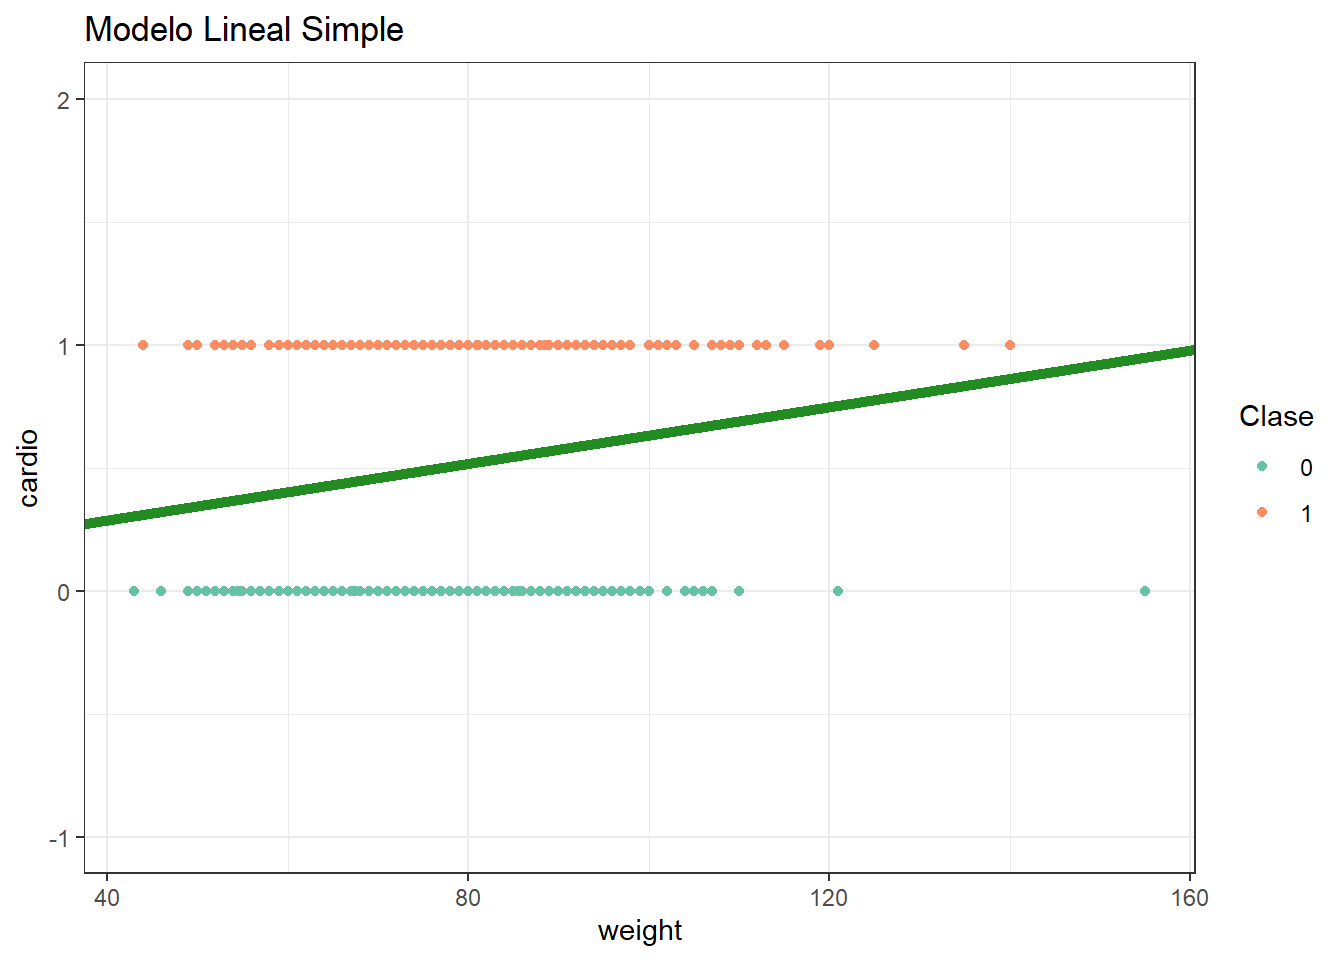
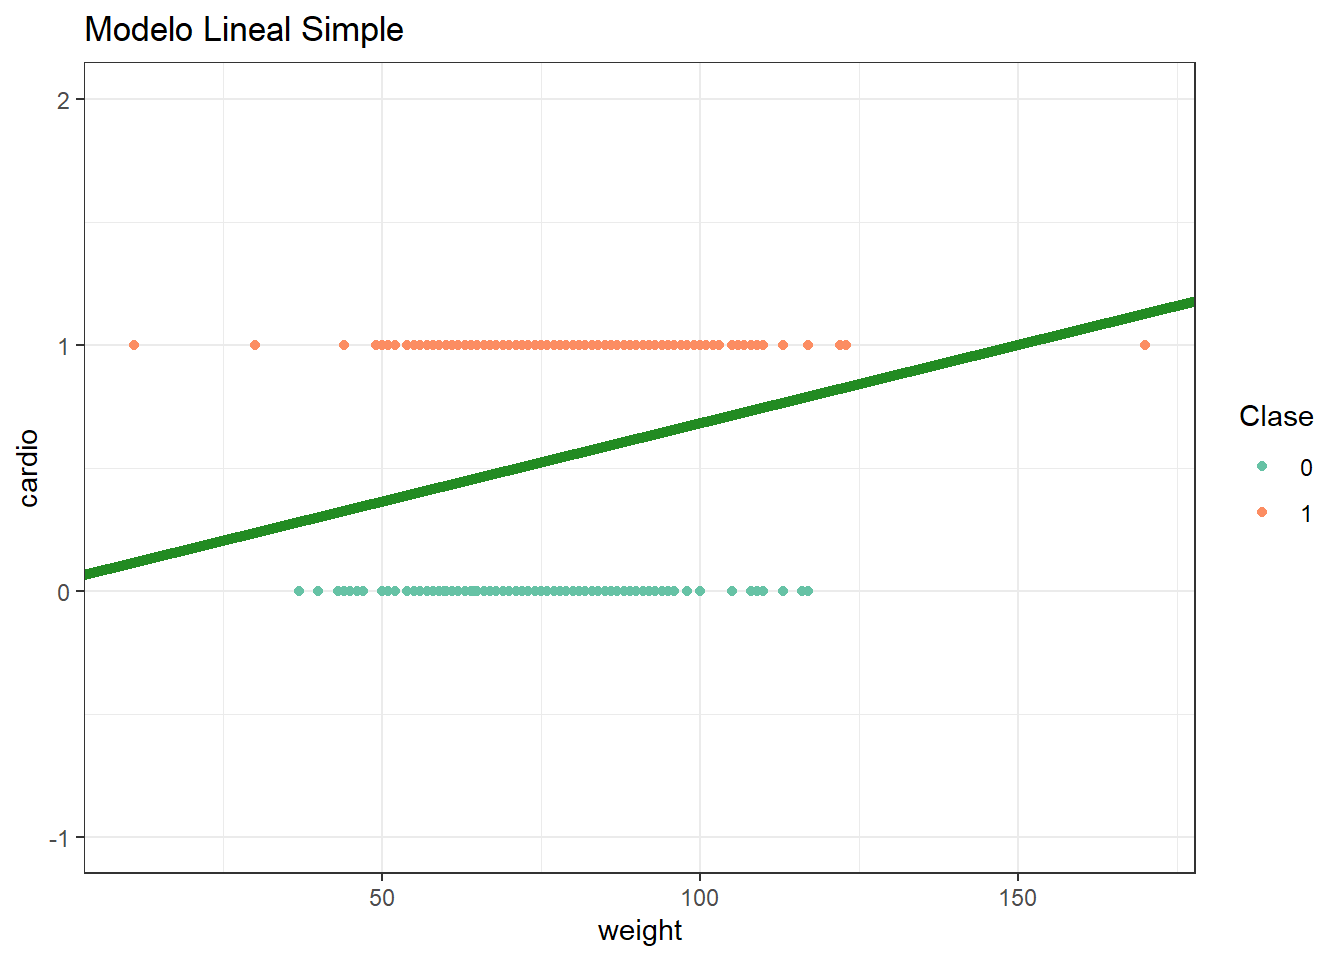
agrego info sobre odds

diff --git a/EEA/2025/regLogistica.html b/EEA/2025/regLogistica.html
@@ -242,8 +242,8 @@ $ cardio      &lt;int&gt; 0, 1, 1, 1, 0, 0, 0, 1, 0, 0, 0, 0, 0, 0, 0, 1, 0, 0, 
 <pre><code># A tibble: 2 × 3
   cardio   cnt  freq
    &lt;int&gt; &lt;int&gt; &lt;dbl&gt;
-1      0   504   0.5
-2      1   496   0.5</code></pre>
+1      0   495   0.5
+2      1   505   0.5</code></pre>
 </div>
 </div>
 <section id="partición-de-la-base-de-datos" class="level2">
@@ -310,19 +310,19 @@ $ cardio      &lt;int&gt; 0, 1, 1, 1, 0, 0, 0, 1, 0, 0, 0, 0, 0, 0, 0, 1, 0, 0, 
 <div class="cell-output cell-output-stdout">
 <pre><code>Rows: 800
 Columns: 13
-$ id          &lt;int&gt; 8598, 98213, 25313, 1565, 14855, 51685, 71755, 57680, 2818…
-$ age         &lt;int&gt; 18900, 18755, 19789, 22761, 16607, 16910, 16651, 14496, 19…
-$ gender      &lt;int&gt; 2, 1, 2, 1, 2, 1, 1, 1, 2, 1, 2, 2, 1, 2, 1, 2, 1, 2, 1, 1…
-$ height      &lt;int&gt; 177, 158, 180, 164, 173, 169, 158, 162, 177, 153, 170, 167…
-$ weight      &lt;dbl&gt; 84, 74, 75, 78, 84, 73, 71, 68, 74, 49, 71, 81, 64, 89, 85…
-$ ap_hi       &lt;int&gt; 130, 14, 120, 130, 120, 120, 110, 110, 120, 120, 100, 140,…
-$ ap_lo       &lt;int&gt; 90, 90, 80, 79, 70, 80, 80, 80, 80, 80, 60, 90, 80, 90, 80…
-$ cholesterol &lt;int&gt; 1, 1, 1, 3, 1, 1, 1, 1, 1, 1, 1, 1, 1, 1, 1, 1, 1, 1, 1, 1…
-$ gluc        &lt;int&gt; 1, 1, 1, 1, 1, 1, 1, 1, 1, 1, 1, 2, 1, 1, 1, 1, 1, 2, 1, 1…
-$ smoke       &lt;int&gt; 0, 0, 0, 0, 0, 0, 0, 0, 1, 0, 0, 0, 0, 0, 0, 0, 0, 1, 0, 0…
-$ alco        &lt;int&gt; 0, 0, 0, 0, 0, 0, 0, 0, 1, 0, 0, 0, 0, 0, 0, 1, 0, 0, 0, 0…
-$ active      &lt;int&gt; 1, 1, 1, 0, 1, 1, 1, 1, 1, 1, 0, 1, 1, 1, 1, 1, 0, 1, 1, 0…
-$ cardio      &lt;int&gt; 0, 1, 1, 1, 0, 0, 0, 0, 0, 0, 1, 1, 1, 1, 0, 0, 1, 0, 0, 1…</code></pre>
+$ id          &lt;int&gt; 6715, 88133, 37378, 54574, 36301, 14598, 38135, 88984, 510…
+$ age         &lt;int&gt; 20320, 21292, 19569, 20639, 15319, 15965, 20375, 18278, 18…
+$ gender      &lt;int&gt; 1, 1, 1, 1, 1, 1, 2, 1, 2, 1, 1, 2, 2, 2, 1, 1, 2, 1, 1, 2…
+$ height      &lt;int&gt; 156, 160, 171, 158, 165, 160, 159, 165, 170, 160, 154, 178…
+$ weight      &lt;dbl&gt; 60, 79, 76, 60, 61, 63, 69, 70, 65, 65, 52, 82, 110, 58, 7…
+$ ap_hi       &lt;int&gt; 110, 140, 100, 120, 100, 11, 120, 130, 120, 110, 100, 140,…
+$ ap_lo       &lt;int&gt; 70, 90, 70, 80, 60, 60, 60, 80, 80, 70, 60, 90, 90, 70, 10…
+$ cholesterol &lt;int&gt; 2, 1, 1, 1, 1, 1, 1, 1, 1, 1, 3, 1, 2, 1, 2, 2, 1, 1, 1, 3…
+$ gluc        &lt;int&gt; 2, 1, 1, 1, 1, 3, 1, 1, 1, 1, 1, 1, 2, 1, 2, 2, 2, 1, 1, 3…
+$ smoke       &lt;int&gt; 0, 0, 0, 0, 0, 0, 0, 0, 0, 0, 0, 0, 0, 1, 0, 0, 0, 0, 0, 0…
+$ alco        &lt;int&gt; 0, 0, 0, 0, 0, 0, 0, 0, 0, 0, 0, 0, 0, 0, 0, 0, 0, 0, 0, 0…
+$ active      &lt;int&gt; 1, 1, 0, 1, 1, 1, 1, 1, 1, 1, 1, 1, 1, 1, 1, 1, 0, 0, 1, 1…
+$ cardio      &lt;int&gt; 0, 1, 0, 1, 0, 0, 0, 0, 0, 1, 1, 1, 1, 1, 1, 1, 0, 1, 1, 1…</code></pre>
 </div>
 </div>
 <p>Seleccioamoslas variables con las que vamos a trabajar y les asignamos el tipo de dato correspondiente.</p>
@@ -383,10 +383,10 @@ $ cardio      &lt;int&gt; 0, 1, 1, 1, 0, 0, 0, 0, 0, 0, 1, 1, 1, 1, 0, 0, 1, 0, 
 </details>
 <div class="cell-output cell-output-stdout">
 <pre><code># A tibble: 2 × 5
-  term        estimate std.error statistic    p.value
-  &lt;chr&gt;          &lt;dbl&gt;     &lt;dbl&gt;     &lt;dbl&gt;      &lt;dbl&gt;
-1 (Intercept)  0.0580    0.0949      0.612 0.541     
-2 weight       0.00574   0.00124     4.62  0.00000448</code></pre>
+  term        estimate std.error statistic     p.value
+  &lt;chr&gt;          &lt;dbl&gt;     &lt;dbl&gt;     &lt;dbl&gt;       &lt;dbl&gt;
+1 (Intercept)  0.0449    0.0926      0.484 0.628      
+2 weight       0.00636   0.00124     5.13  0.000000372</code></pre>
 </div>
 <details open="" class="code-fold">
 <summary>Código</summary>
@@ -394,9 +394,9 @@ $ cardio      &lt;int&gt; 0, 1, 1, 1, 0, 0, 0, 0, 0, 0, 1, 1, 1, 1, 0, 0, 1, 0, 
 </details>
 <div class="cell-output cell-output-stdout">
 <pre><code># A tibble: 1 × 12
-  r.squared adj.r.squared sigma statistic    p.value    df logLik   AIC   BIC
-      &lt;dbl&gt;         &lt;dbl&gt; &lt;dbl&gt;     &lt;dbl&gt;      &lt;dbl&gt; &lt;dbl&gt;  &lt;dbl&gt; &lt;dbl&gt; &lt;dbl&gt;
-1    0.0260        0.0248 0.494      21.3 0.00000448     1  -570. 1146. 1160.
+  r.squared adj.r.squared sigma statistic     p.value    df logLik   AIC   BIC
+      &lt;dbl&gt;         &lt;dbl&gt; &lt;dbl&gt;     &lt;dbl&gt;       &lt;dbl&gt; &lt;dbl&gt;  &lt;dbl&gt; &lt;dbl&gt; &lt;dbl&gt;
+1    0.0319        0.0307 0.492      26.3 0.000000372     1  -567. 1141. 1155.
 # ℹ 3 more variables: deviance &lt;dbl&gt;, df.residual &lt;int&gt;, nobs &lt;int&gt;</code></pre>
 </div>
 </div>
@@ -420,10 +420,22 @@ $ cardio      &lt;int&gt; 0, 1, 1, 1, 0, 0, 0, 0, 0, 0, 1, 1, 1, 1, 0, 0, 1, 0, 
 </section>
 <section id="recap-de-regresión-logística" class="level2">
 <h2 class="anchored" data-anchor-id="recap-de-regresión-logística">Recap de Regresión Logística</h2>
+<p>Odds</p>
+<p>Cociente entre la probabilidad de éxito de un evento y la probabilidad de que no ocurra.</p>
+<p><span class="math inline">\(Odds = \frac{P(x)}{1-P(x)}\)</span></p>
+<p>Ej. si <em>Odds</em> es 3 indica que por cada 4 repeticiones del evento se espera que ocurran 3 y que una no ocurra.</p>
+<p>Odds &lt; 1 : es mas probable que no ocurra a que si</p>
+<p>Odds = 1 : equiprobabilidad</p>
+<p>Odds &gt; 1: es mas probable que el evento ocurra a que no.</p>
+<p>En nuestro caso:</p>
+<p><span class="math inline">\(Odds = \frac{391/800}{409/800}= 0.9558 \approx \frac{191}{200}\)</span></p>
+<p>Por cada 191 pacientes con ECV, 200 no la tienen.</p>
+<p><span class="math inline">\(Logit = \log {\frac{P(x)}{1-P(x)}}= \log Odds\)</span></p>
+<p>1- Escala del predictor lineal 2- Odds 3- Escala de la VR</p>
 <div class="quarto-figure quarto-figure-center">
 <figure class="figure">
 <p><img src="rl.png" class="img-fluid figure-img"></p>
-<figcaption>Imagen adapatada de la clase de RL de Adriana Perez</figcaption>
+<figcaption>Imagen adaptada de la clase de RL de Adriana Perez</figcaption>
 </figure>
 </div>
 </section>
@@ -457,13 +469,13 @@ $ cardio      &lt;int&gt; 0, 1, 1, 1, 0, 0, 0, 0, 0, 0, 1, 1, 1, 1, 0, 0, 1, 0, 
 </details>
 <div class="cell-output cell-output-stdout">
 <pre><code># A tibble: 5 × 5
-  term         estimate std.error statistic     p.value
-  &lt;chr&gt;           &lt;dbl&gt;     &lt;dbl&gt;     &lt;dbl&gt;       &lt;dbl&gt;
-1 (Intercept)   -1.75     0.415      -4.22  0.0000249  
-2 weight         0.0208   0.00556     3.73  0.000190   
-3 cholesterol2   0.325    0.209       1.56  0.119      
-4 cholesterol3   1.44     0.275       5.24  0.000000162
-5 gender2       -0.111    0.155      -0.714 0.475      </code></pre>
+  term         estimate std.error statistic    p.value
+  &lt;chr&gt;           &lt;dbl&gt;     &lt;dbl&gt;     &lt;dbl&gt;      &lt;dbl&gt;
+1 (Intercept)   -1.93     0.412      -4.69  0.00000279
+2 weight         0.0244   0.00566     4.32  0.0000159 
+3 cholesterol2   0.667    0.204       3.27  0.00109   
+4 cholesterol3   1.05     0.238       4.43  0.00000957
+5 gender2       -0.133    0.157      -0.846 0.397     </code></pre>
 </div>
 <details open="" class="code-fold">
 <summary>Código</summary>
@@ -473,7 +485,7 @@ $ cardio      &lt;int&gt; 0, 1, 1, 1, 0, 0, 0, 0, 0, 0, 1, 1, 1, 1, 0, 0, 1, 0, 
 <pre><code># A tibble: 1 × 8
   null.deviance df.null logLik   AIC   BIC deviance df.residual  nobs
           &lt;dbl&gt;   &lt;int&gt;  &lt;dbl&gt; &lt;dbl&gt; &lt;dbl&gt;    &lt;dbl&gt;       &lt;int&gt; &lt;int&gt;
-1         1109.     799  -527. 1063. 1087.    1053.         795   800</code></pre>
+1         1109.     799  -527. 1064. 1087.    1054.         795   800</code></pre>
 </div>
 </div>
 <!-- -->
@@ -1139,47 +1151,74 @@ window.document.addEventListener("DOMContentLoaded", function (event) {
 <span id="cb24-200"><a href="#cb24-200" aria-hidden="true" tabindex="-1"></a></span>
 <span id="cb24-201"><a href="#cb24-201" aria-hidden="true" tabindex="-1"></a><span class="fu">## Recap de Regresión Logística</span></span>
 <span id="cb24-202"><a href="#cb24-202" aria-hidden="true" tabindex="-1"></a></span>
-<span id="cb24-203"><a href="#cb24-203" aria-hidden="true" tabindex="-1"></a><span class="al">![Imagen adapatada de la clase de RL de Adriana Perez](rl.png)</span>{}</span>
+<span id="cb24-203"><a href="#cb24-203" aria-hidden="true" tabindex="-1"></a>Odds</span>
 <span id="cb24-204"><a href="#cb24-204" aria-hidden="true" tabindex="-1"></a></span>
-<span id="cb24-205"><a href="#cb24-205" aria-hidden="true" tabindex="-1"></a><span class="fu">## Ahora si modelamos los datos con una Regresión Logística</span></span>
+<span id="cb24-205"><a href="#cb24-205" aria-hidden="true" tabindex="-1"></a>Cociente entre la probabilidad de éxito de un evento y la probabilidad de que no ocurra.</span>
 <span id="cb24-206"><a href="#cb24-206" aria-hidden="true" tabindex="-1"></a></span>
-<span id="cb24-207"><a href="#cb24-207" aria-hidden="true" tabindex="-1"></a>Para evitar estos problemas, usamos la **función logística**.</span>
+<span id="cb24-207"><a href="#cb24-207" aria-hidden="true" tabindex="-1"></a>$Odds = \frac{P(x)}{1-P(x)}$</span>
 <span id="cb24-208"><a href="#cb24-208" aria-hidden="true" tabindex="-1"></a></span>
-<span id="cb24-209"><a href="#cb24-209" aria-hidden="true" tabindex="-1"></a>$P(Y=1|X)= \frac{e^{\beta_0 + \sum\limits_{j=1}^p \beta_j X_j}}{1+e^{\beta_0 + \sum\limits_{j=1}^p \beta_j X_j}}$</span>
+<span id="cb24-209"><a href="#cb24-209" aria-hidden="true" tabindex="-1"></a>Ej. si _Odds_ es 3 indica que por cada 4 repeticiones del evento se espera que ocurran 3 y que una no ocurra.</span>
 <span id="cb24-210"><a href="#cb24-210" aria-hidden="true" tabindex="-1"></a></span>
-<span id="cb24-211"><a href="#cb24-211" aria-hidden="true" tabindex="-1"></a>El lado derecho se llama **expit**</span>
+<span id="cb24-211"><a href="#cb24-211" aria-hidden="true" tabindex="-1"></a>Odds &lt; 1 : es mas probable que no ocurra a que si</span>
 <span id="cb24-212"><a href="#cb24-212" aria-hidden="true" tabindex="-1"></a></span>
-<span id="cb24-213"><a href="#cb24-213" aria-hidden="true" tabindex="-1"></a>Esta función acota el resultado entre 0 y 1, lo cual es mucho más adecuado para modelar una probabilidad.</span>
+<span id="cb24-213"><a href="#cb24-213" aria-hidden="true" tabindex="-1"></a>Odds = 1 : equiprobabilidad</span>
 <span id="cb24-214"><a href="#cb24-214" aria-hidden="true" tabindex="-1"></a></span>
-<span id="cb24-215"><a href="#cb24-215" aria-hidden="true" tabindex="-1"></a>Luego de hacer algunas operaciones, podemos llegar a la expresión:</span>
+<span id="cb24-215"><a href="#cb24-215" aria-hidden="true" tabindex="-1"></a>Odds &gt; 1: es mas probable que el evento ocurra a que no.</span>
 <span id="cb24-216"><a href="#cb24-216" aria-hidden="true" tabindex="-1"></a></span>
-<span id="cb24-217"><a href="#cb24-217" aria-hidden="true" tabindex="-1"></a>$\log {\frac{P(x)}{1-P(x)}}= \beta_0 + \sum\limits_{j=1}^p \beta_j X_j$</span>
+<span id="cb24-217"><a href="#cb24-217" aria-hidden="true" tabindex="-1"></a>En nuestro caso:</span>
 <span id="cb24-218"><a href="#cb24-218" aria-hidden="true" tabindex="-1"></a></span>
-<span id="cb24-219"><a href="#cb24-219" aria-hidden="true" tabindex="-1"></a>El lado izquierdo es el logaritmo de los **odds** y se llama **logit**.</span>
+<span id="cb24-219"><a href="#cb24-219" aria-hidden="true" tabindex="-1"></a>$Odds = \frac{391/800}{409/800}= 0.9558 \approx \frac{191}{200}$</span>
 <span id="cb24-220"><a href="#cb24-220" aria-hidden="true" tabindex="-1"></a></span>
-<span id="cb24-221"><a href="#cb24-221" aria-hidden="true" tabindex="-1"></a><span class="fu">### Modelo </span></span>
+<span id="cb24-221"><a href="#cb24-221" aria-hidden="true" tabindex="-1"></a>Por cada 191 pacientes con ECV, 200 no la tienen.</span>
 <span id="cb24-222"><a href="#cb24-222" aria-hidden="true" tabindex="-1"></a></span>
-<span id="cb24-223"><a href="#cb24-223" aria-hidden="true" tabindex="-1"></a>La funcíón <span class="in">`glm()`</span> nos permite crear un modelo lineal generalizado (Generalized Linear Model). Al igual que la función <span class="in">`lm()`</span> toma como argumentos una **formula** y los **datos** pero también se debe especificar el argumento **family**: indicamos la distribución del error y la función link que vamos a utilizar en el modelo. </span>
-<span id="cb24-224"><a href="#cb24-224" aria-hidden="true" tabindex="-1"></a></span>
-<span id="cb24-225"><a href="#cb24-225" aria-hidden="true" tabindex="-1"></a>Algunas familias son:</span>
-<span id="cb24-226"><a href="#cb24-226" aria-hidden="true" tabindex="-1"></a></span>
-<span id="cb24-227"><a href="#cb24-227" aria-hidden="true" tabindex="-1"></a><span class="ss">* </span>*Binomial*: link=logit</span>
-<span id="cb24-228"><a href="#cb24-228" aria-hidden="true" tabindex="-1"></a></span>
-<span id="cb24-229"><a href="#cb24-229" aria-hidden="true" tabindex="-1"></a><span class="ss">* </span>*Poisson*: link=log</span>
-<span id="cb24-230"><a href="#cb24-230" aria-hidden="true" tabindex="-1"></a></span>
-<span id="cb24-231"><a href="#cb24-231" aria-hidden="true" tabindex="-1"></a><span class="ss">* </span>*Gaussiana*: link=identidad</span>
-<span id="cb24-232"><a href="#cb24-232" aria-hidden="true" tabindex="-1"></a></span>
-<span id="cb24-233"><a href="#cb24-233" aria-hidden="true" tabindex="-1"></a>Como estamos trabajando con un fenómeno que suponemos tiene una distribución binomial, así lo especificamos en el parámetro **family**.</span>
-<span id="cb24-234"><a href="#cb24-234" aria-hidden="true" tabindex="-1"></a></span>
-<span id="cb24-235"><a href="#cb24-235" aria-hidden="true" tabindex="-1"></a>Realizamos un modelo de regresión logística para predecir la supervivencia en función de **wight**, **cholesterol** y **gender**. </span>
-<span id="cb24-236"><a href="#cb24-236" aria-hidden="true" tabindex="-1"></a></span>
-<span id="cb24-239"><a href="#cb24-239" aria-hidden="true" tabindex="-1"></a><span class="in">```{r}</span></span>
-<span id="cb24-240"><a href="#cb24-240" aria-hidden="true" tabindex="-1"></a><span class="co"># modelo de regresión logística </span></span>
-<span id="cb24-241"><a href="#cb24-241" aria-hidden="true" tabindex="-1"></a>glm1 <span class="ot">&lt;-</span> <span class="fu">glm</span>(<span class="at">data =</span> train, cardio <span class="sc">~</span> weight <span class="sc">+</span> cholesterol <span class="sc">+</span> gender, <span class="at">family =</span> <span class="st">'binomial'</span>)</span>
-<span id="cb24-242"><a href="#cb24-242" aria-hidden="true" tabindex="-1"></a><span class="co"># veo los resultados</span></span>
-<span id="cb24-243"><a href="#cb24-243" aria-hidden="true" tabindex="-1"></a><span class="fu">tidy</span>(glm1)</span>
-<span id="cb24-244"><a href="#cb24-244" aria-hidden="true" tabindex="-1"></a><span class="fu">glance</span>(glm1)</span>
-<span id="cb24-245"><a href="#cb24-245" aria-hidden="true" tabindex="-1"></a><span class="in">```</span></span>
+<span id="cb24-223"><a href="#cb24-223" aria-hidden="true" tabindex="-1"></a></span>
+<span id="cb24-224"><a href="#cb24-224" aria-hidden="true" tabindex="-1"></a>$Logit = \log {\frac{P(x)}{1-P(x)}}= \log Odds$</span>
+<span id="cb24-225"><a href="#cb24-225" aria-hidden="true" tabindex="-1"></a></span>
+<span id="cb24-226"><a href="#cb24-226" aria-hidden="true" tabindex="-1"></a>1- Escala del predictor lineal</span>
+<span id="cb24-227"><a href="#cb24-227" aria-hidden="true" tabindex="-1"></a>2- Odds</span>
+<span id="cb24-228"><a href="#cb24-228" aria-hidden="true" tabindex="-1"></a>3- Escala de la VR</span>
+<span id="cb24-229"><a href="#cb24-229" aria-hidden="true" tabindex="-1"></a></span>
+<span id="cb24-230"><a href="#cb24-230" aria-hidden="true" tabindex="-1"></a><span class="al">![Imagen adaptada de la clase de RL de Adriana Perez](rl.png)</span>{}</span>
+<span id="cb24-231"><a href="#cb24-231" aria-hidden="true" tabindex="-1"></a></span>
+<span id="cb24-232"><a href="#cb24-232" aria-hidden="true" tabindex="-1"></a><span class="fu">## Ahora si modelamos los datos con una Regresión Logística</span></span>
+<span id="cb24-233"><a href="#cb24-233" aria-hidden="true" tabindex="-1"></a></span>
+<span id="cb24-234"><a href="#cb24-234" aria-hidden="true" tabindex="-1"></a>Para evitar estos problemas, usamos la **función logística**.</span>
+<span id="cb24-235"><a href="#cb24-235" aria-hidden="true" tabindex="-1"></a></span>
+<span id="cb24-236"><a href="#cb24-236" aria-hidden="true" tabindex="-1"></a>$P(Y=1|X)= \frac{e^{\beta_0 + \sum\limits_{j=1}^p \beta_j X_j}}{1+e^{\beta_0 + \sum\limits_{j=1}^p \beta_j X_j}}$</span>
+<span id="cb24-237"><a href="#cb24-237" aria-hidden="true" tabindex="-1"></a></span>
+<span id="cb24-238"><a href="#cb24-238" aria-hidden="true" tabindex="-1"></a>El lado derecho se llama **expit**</span>
+<span id="cb24-239"><a href="#cb24-239" aria-hidden="true" tabindex="-1"></a></span>
+<span id="cb24-240"><a href="#cb24-240" aria-hidden="true" tabindex="-1"></a>Esta función acota el resultado entre 0 y 1, lo cual es mucho más adecuado para modelar una probabilidad.</span>
+<span id="cb24-241"><a href="#cb24-241" aria-hidden="true" tabindex="-1"></a></span>
+<span id="cb24-242"><a href="#cb24-242" aria-hidden="true" tabindex="-1"></a>Luego de hacer algunas operaciones, podemos llegar a la expresión:</span>
+<span id="cb24-243"><a href="#cb24-243" aria-hidden="true" tabindex="-1"></a></span>
+<span id="cb24-244"><a href="#cb24-244" aria-hidden="true" tabindex="-1"></a>$\log {\frac{P(x)}{1-P(x)}}= \beta_0 + \sum\limits_{j=1}^p \beta_j X_j$</span>
+<span id="cb24-245"><a href="#cb24-245" aria-hidden="true" tabindex="-1"></a></span>
+<span id="cb24-246"><a href="#cb24-246" aria-hidden="true" tabindex="-1"></a>El lado izquierdo es el logaritmo de los **odds** y se llama **logit**.</span>
+<span id="cb24-247"><a href="#cb24-247" aria-hidden="true" tabindex="-1"></a></span>
+<span id="cb24-248"><a href="#cb24-248" aria-hidden="true" tabindex="-1"></a><span class="fu">### Modelo </span></span>
+<span id="cb24-249"><a href="#cb24-249" aria-hidden="true" tabindex="-1"></a></span>
+<span id="cb24-250"><a href="#cb24-250" aria-hidden="true" tabindex="-1"></a>La funcíón <span class="in">`glm()`</span> nos permite crear un modelo lineal generalizado (Generalized Linear Model). Al igual que la función <span class="in">`lm()`</span> toma como argumentos una **formula** y los **datos** pero también se debe especificar el argumento **family**: indicamos la distribución del error y la función link que vamos a utilizar en el modelo. </span>
+<span id="cb24-251"><a href="#cb24-251" aria-hidden="true" tabindex="-1"></a></span>
+<span id="cb24-252"><a href="#cb24-252" aria-hidden="true" tabindex="-1"></a>Algunas familias son:</span>
+<span id="cb24-253"><a href="#cb24-253" aria-hidden="true" tabindex="-1"></a></span>
+<span id="cb24-254"><a href="#cb24-254" aria-hidden="true" tabindex="-1"></a><span class="ss">* </span>*Binomial*: link=logit</span>
+<span id="cb24-255"><a href="#cb24-255" aria-hidden="true" tabindex="-1"></a></span>
+<span id="cb24-256"><a href="#cb24-256" aria-hidden="true" tabindex="-1"></a><span class="ss">* </span>*Poisson*: link=log</span>
+<span id="cb24-257"><a href="#cb24-257" aria-hidden="true" tabindex="-1"></a></span>
+<span id="cb24-258"><a href="#cb24-258" aria-hidden="true" tabindex="-1"></a><span class="ss">* </span>*Gaussiana*: link=identidad</span>
+<span id="cb24-259"><a href="#cb24-259" aria-hidden="true" tabindex="-1"></a></span>
+<span id="cb24-260"><a href="#cb24-260" aria-hidden="true" tabindex="-1"></a>Como estamos trabajando con un fenómeno que suponemos tiene una distribución binomial, así lo especificamos en el parámetro **family**.</span>
+<span id="cb24-261"><a href="#cb24-261" aria-hidden="true" tabindex="-1"></a></span>
+<span id="cb24-262"><a href="#cb24-262" aria-hidden="true" tabindex="-1"></a>Realizamos un modelo de regresión logística para predecir la supervivencia en función de **wight**, **cholesterol** y **gender**. </span>
+<span id="cb24-263"><a href="#cb24-263" aria-hidden="true" tabindex="-1"></a></span>
+<span id="cb24-266"><a href="#cb24-266" aria-hidden="true" tabindex="-1"></a><span class="in">```{r}</span></span>
+<span id="cb24-267"><a href="#cb24-267" aria-hidden="true" tabindex="-1"></a><span class="co"># modelo de regresión logística </span></span>
+<span id="cb24-268"><a href="#cb24-268" aria-hidden="true" tabindex="-1"></a>glm1 <span class="ot">&lt;-</span> <span class="fu">glm</span>(<span class="at">data =</span> train, cardio <span class="sc">~</span> weight <span class="sc">+</span> cholesterol <span class="sc">+</span> gender, <span class="at">family =</span> <span class="st">'binomial'</span>)</span>
+<span id="cb24-269"><a href="#cb24-269" aria-hidden="true" tabindex="-1"></a><span class="co"># veo los resultados</span></span>
+<span id="cb24-270"><a href="#cb24-270" aria-hidden="true" tabindex="-1"></a><span class="fu">tidy</span>(glm1)</span>
+<span id="cb24-271"><a href="#cb24-271" aria-hidden="true" tabindex="-1"></a><span class="fu">glance</span>(glm1)</span>
+<span id="cb24-272"><a href="#cb24-272" aria-hidden="true" tabindex="-1"></a><span class="in">```</span></span>
 </code><button title="Copiar al portapapeles" class="code-copy-button" data-in-quarto-modal=""><i class="bi"></i></button></pre></div>
 </div></div></div></div></div>
 </div> <!-- /content -->
